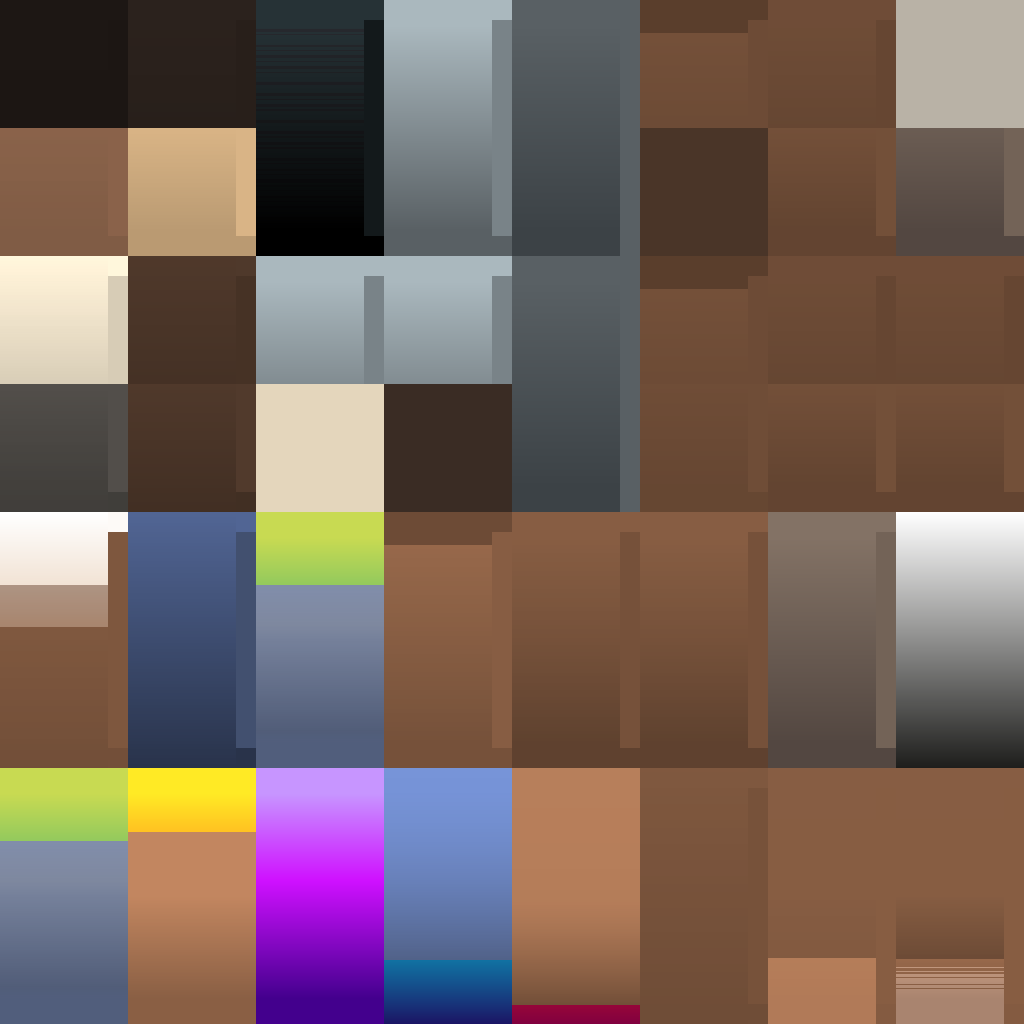
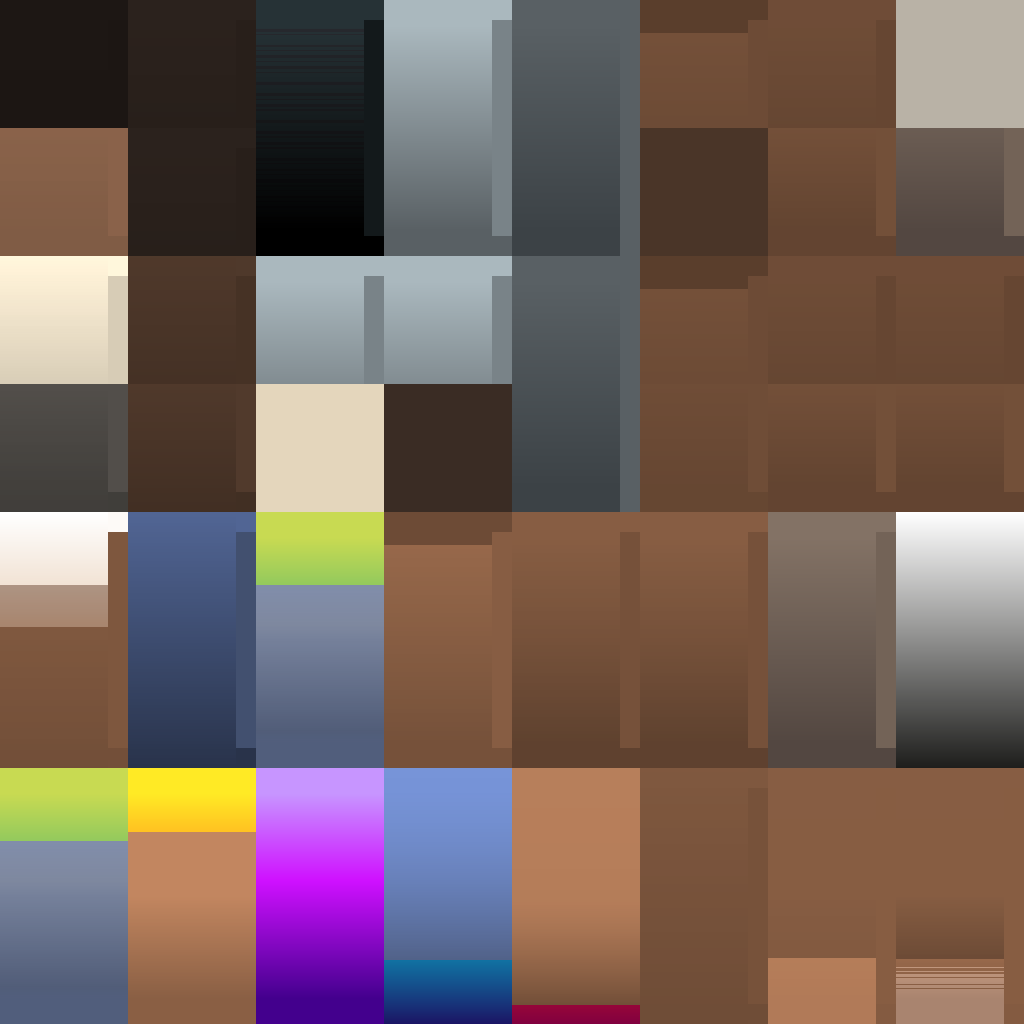
art(light): near-black hair tufts in skin atlas, subtler AO + tilt-shift, bloom kept emissive-only

Changed region(s): [[0.125, 0.125, 0.25, 0.25]]

diff --git a/src/world/Effects.tsx b/src/world/Effects.tsx
@@ -9,9 +9,9 @@ import { EffectComposer, N8AO, SMAA, TiltShift2, Vignette, Bloom } from '@react-
 export default function Effects() {
   return (
     <EffectComposer multisampling={0}>
-      <N8AO halfRes quality="performance" intensity={2.2} aoRadius={1.7} distanceFalloff={0.9} color="#4a3a2a" />
-      <Bloom mipmapBlur luminanceThreshold={1.0} luminanceSmoothing={0.18} intensity={0.45} />
-      <TiltShift2 blur={0.55} taper={0.42} start={[0.15, 0.7]} end={[0.9, 0.4]} samples={16} />
+      <N8AO halfRes quality="performance" intensity={1.7} aoRadius={1.3} distanceFalloff={1.0} color="#4a3a2a" />
+      <Bloom mipmapBlur luminanceThreshold={1.0} luminanceSmoothing={0.2} intensity={0.45} />
+      <TiltShift2 blur={0.15} taper={0.35} start={[0.15, 0.7]} end={[0.9, 0.4]} samples={10} />
       <Vignette offset={0.32} darkness={0.26} />
       <SMAA />
     </EffectComposer>

diff --git a/docs/notes/ART-LIGHT.md b/docs/notes/ART-LIGHT.md
@@ -1,0 +1,22 @@
+# ART-LIGHT — lighting / FX / character pass
+
+Owns `src/world/Effects.tsx`, lights in `src/world/World.tsx`, `src/world/Traveller.tsx`,
+`public/models/student-skin.png`.
+
+- Skin atlas: cell (1,1) was left light tan (`#c5a479`) by the earlier retint — it maps to the
+  hairline wisps, sidelocks, nape and under-chin band of `Rogue_Head` (verified by rasterizing
+  the head UVs out of student.glb: only the head samples that cell). Filled it with cell (1,0)'s
+  near-black gradient so all hair reads one dark tone; face cell (0,1) warm brown untouched,
+  eyes stay dark/visible. Software-rendered front/3/4/back to confirm.
+- Effects: N8AO 2.2→1.7, aoRadius 1.7→1.3, falloff 0.9→1.0 — tighter, subtler contact darkening.
+  Bloom unchanged in intent (mipmapBlur, threshold 1.0 → lantern glass and pulsing glowMat
+  pieces only, no blown whites), smoothing 0.2. TiltShift2 per coordinator: blur 0.55→0.15,
+  taper 0.42→0.35, samples 16→10 — only a light edge falloff, bridges/top of frame stay sharp.
+  Vignette + SMAA kept. `?lite` still mounts no effects.
+- World.tsx: the unlock flare pointLight already matches the brief (warm `#ffc27a`, brief
+  flash, decays) — left as is. Key sun / cool fill live in Atmosphere.tsx (ART-ENV's file),
+  already warm `#ffe2b6` + cool `#dfe9e4`; soft edges come from `shadows="soft"` (PCFSoft).
+  Traveller keeps its blob contact shadow (works in lite too).
+
+Verified: `tsc --noEmit -p .` passes; head + body renders checked offline. Level-check not
+re-run after the last tune (time-boxed by V5 handoff); earlier proofs showed no issues.
